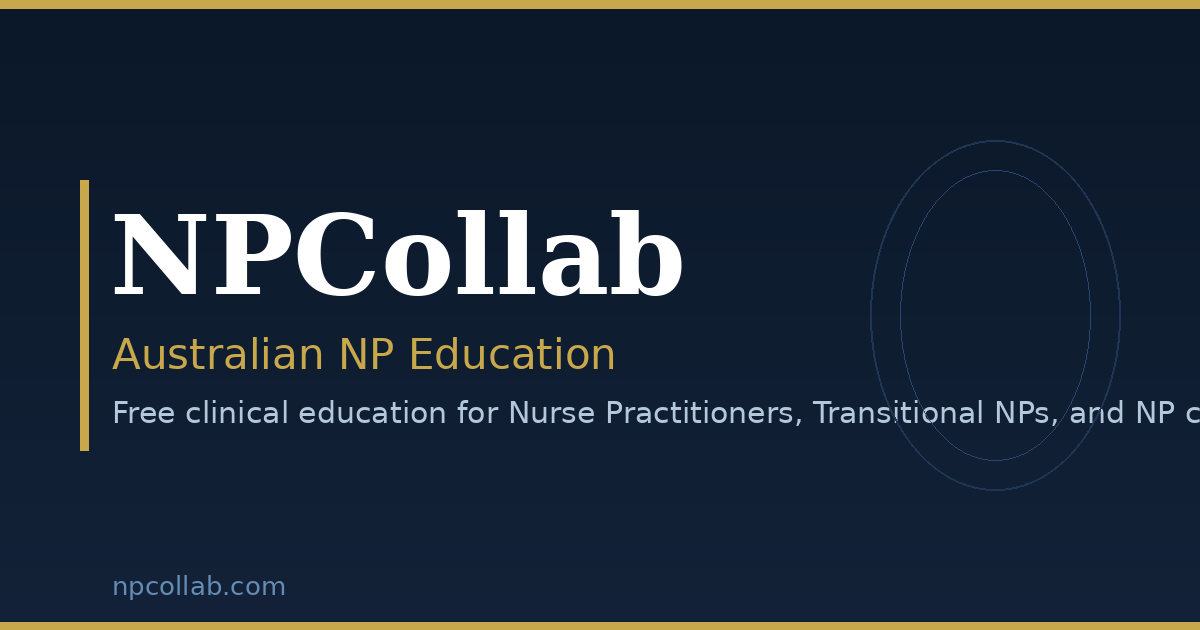
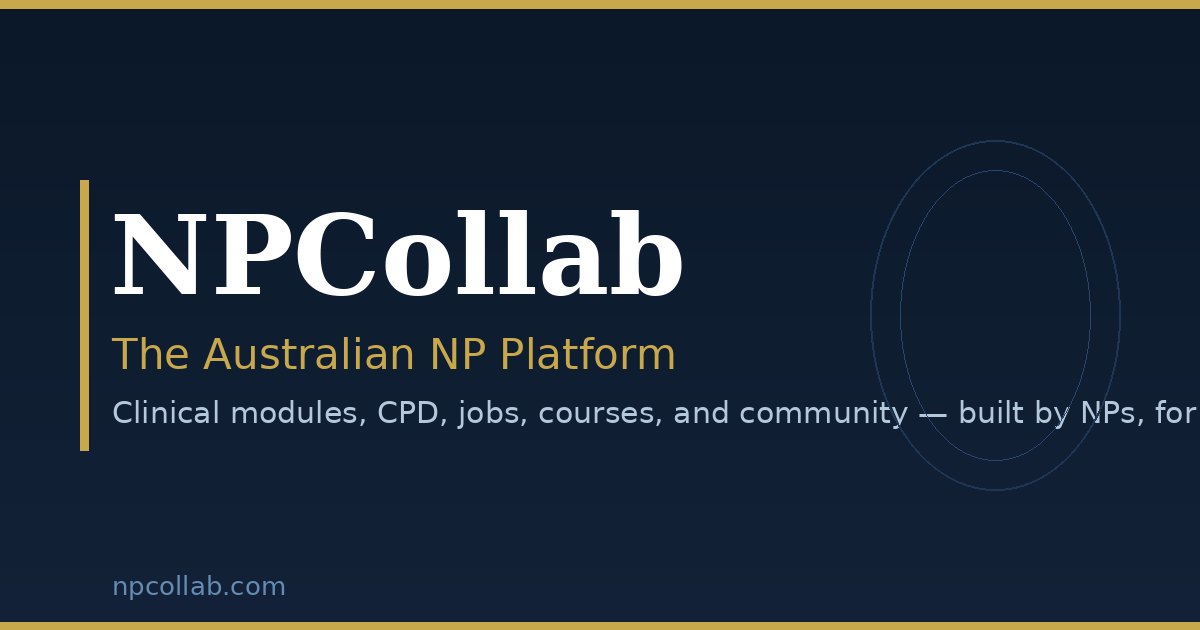
Session 22b: Update SEO positioning — platform over education
- ROOT LAYOUT: Default description now 'the Australian platform for Nurse Practitioners...'
  Title template updated to '| NPCollab — The Australian NP Platform'
  OG/Twitter default title updated to match
  OG image alt text updated

- HOMEPAGE: Title → 'NPCollab — The Australian Nurse Practitioner Platform'
  Description → 'the free Australian platform... Clinical modules, CPD tracking, NP jobs,
  education courses, news, and community — all in one place'
  JSON-LD description updated to match

- ABOUT: Meta description → 'the go-to platform for NPs across Australia'
  Page subtitle updated to match new positioning

- SUPPORT: Meta description → 'the Australian NP platform built by NPs for NPs'

- OG image: Tagline updated from 'Australian NP Education' to 'The Australian NP Platform'
  Sub-descriptor updated to reflect full platform offering

tsc --noEmit: zero errors

Changed region(s): [[0.0925, 0.6333, 1.0, 0.6937], [0.0925, 0.5127, 0.5858, 0.6032]]

diff --git a/app/(main)/page.tsx b/app/(main)/page.tsx
@@ -4,11 +4,11 @@ import { getActiveSponsor, isAdPreviewMode } from '@/lib/sponsors';
 import { HomepageSponsorCard } from '@/components/SponsorCard';
 
 export const metadata: Metadata = {
-  title: 'Free Clinical Education for Australian Nurse Practitioners',
-  description: 'Free clinical modules, CPD resources, job board, and community for Australian Nurse Practitioners, Transitional NPs, and NP candidates.',
+  title: 'NPCollab — The Australian Nurse Practitioner Platform',
+  description: 'NPCollab is the free Australian platform for Nurse Practitioners and NP candidates. Clinical modules, CPD tracking, NP jobs, education courses, news, and community — all in one place.',
   openGraph: {
-    title: 'Free Clinical Education for Australian Nurse Practitioners | NPCollab',
-    description: 'Free clinical modules, CPD resources, job board, and community for Australian Nurse Practitioners, Transitional NPs, and NP candidates.',
+    title: 'NPCollab — The Australian Nurse Practitioner Platform',
+    description: 'NPCollab is the free Australian platform for Nurse Practitioners and NP candidates. Clinical modules, CPD tracking, NP jobs, education courses, news, and community — all in one place.',
     url: 'https://npcollab.com/',
   },
   alternates: {
@@ -40,7 +40,7 @@ export default async function HomePage() {
         name: 'NPCollab',
         url: 'https://npcollab.com',
         description:
-          'NPCollab is a free clinical education platform for Australian Nurse Practitioners, Transitional NPs, and NP candidates. Clinical modules, CPD resources, job board, and community — built by NPs, for NPs.',
+          'NPCollab is the Australian platform for Nurse Practitioners, Transitional NPs, and NP candidates. Clinical modules, CPD resources, job board, courses, and community — built by NPs, for NPs.',
         founder: {
           '@type': 'Person',
           name: 'Jason Carney',

diff --git a/app/layout.tsx b/app/layout.tsx
@@ -5,13 +5,13 @@ import './globals.css';
 const SITE_URL = 'https://npcollab.com';
 const SITE_NAME = 'NPCollab';
 const DEFAULT_DESCRIPTION =
-  'NPCollab is a free clinical education platform for Australian Nurse Practitioners, Transitional NPs, and NP candidates. Clinical modules, CPD resources, job board, and community — built by NPs, for NPs.';
+  'NPCollab is the Australian platform for Nurse Practitioners, Transitional NPs, and NP candidates. Clinical modules, CPD resources, job board, courses, and community — built by NPs, for NPs.';
 
 export const metadata: Metadata = {
   metadataBase: new URL(SITE_URL),
   title: {
-    template: `%s | ${SITE_NAME} — Australian NP Education`,
-    default: `${SITE_NAME} — Free Clinical Education for Australian Nurse Practitioners`,
+    template: `%s | ${SITE_NAME} — The Australian NP Platform`,
+    default: `${SITE_NAME} — The Australian Nurse Practitioner Platform`,
   },
   description: DEFAULT_DESCRIPTION,
   keywords: [
@@ -44,20 +44,20 @@ export const metadata: Metadata = {
     locale: 'en_AU',
     url: SITE_URL,
     siteName: SITE_NAME,
-    title: `${SITE_NAME} — Free Clinical Education for Australian Nurse Practitioners`,
+    title: `${SITE_NAME} — The Australian Nurse Practitioner Platform`,
     description: DEFAULT_DESCRIPTION,
     images: [
       {
         url: '/og-image.png',
         width: 1200,
         height: 630,
-        alt: 'NPCollab — Australian NP Education',
+        alt: 'NPCollab — The Australian NP Platform',
       },
     ],
   },
   twitter: {
     card: 'summary_large_image',
-    title: `${SITE_NAME} — Free Clinical Education for Australian Nurse Practitioners`,
+    title: `${SITE_NAME} — The Australian Nurse Practitioner Platform`,
     description: DEFAULT_DESCRIPTION,
     images: ['/og-image.png'],
   },

diff --git a/app/(main)/about/page.tsx b/app/(main)/about/page.tsx
@@ -2,10 +2,10 @@ import type { Metadata } from 'next';
 
 export const metadata: Metadata = {
   title: 'About NPCollab',
-  description: 'NPCollab was built by Jason Carney, an Australian Nurse Practitioner, to provide free clinical education for NPs across Australia.',
+  description: 'NPCollab was built by Jason Carney, an Australian Nurse Practitioner, as the go-to platform for NPs across Australia.',
   openGraph: {
     title: 'About NPCollab | NPCollab',
-    description: 'NPCollab was built by Jason Carney, an Australian Nurse Practitioner, to provide free clinical education for NPs across Australia.',
+    description: 'NPCollab was built by Jason Carney, an Australian Nurse Practitioner, as the go-to platform for NPs across Australia.',
     url: 'https://npcollab.com/about',
   },
   alternates: {
@@ -19,7 +19,7 @@ export default function AboutPage() {
       <div className="page-header">
         <div className="label">Site</div>
         <h1>About NPCollab</h1>
-        <p>A free clinical education platform built by an Australian Nurse Practitioner, for Nurse Practitioners.</p>
+        <p>The Australian platform for Nurse Practitioners — built by an NP, for NPs.</p>
       </div>
 
       <div className="content-prose">

diff --git a/app/(main)/support/page.tsx b/app/(main)/support/page.tsx
@@ -3,10 +3,10 @@ import SupportPageClient from './SupportPageClient';
 
 export const metadata: Metadata = {
   title: 'Support NPCollab',
-  description: 'Support NPCollab — a free clinical education platform built by Australian NPs for NPs. Help keep it free and independent.',
+  description: 'Support NPCollab — the Australian NP platform built by NPs for NPs. Help keep it free and independent.',
   openGraph: {
     title: 'Support NPCollab | NPCollab',
-    description: 'Support NPCollab — a free clinical education platform built by Australian NPs for NPs. Help keep it free and independent.',
+    description: 'Support NPCollab — the Australian NP platform built by NPs for NPs. Help keep it free and independent.',
     url: 'https://npcollab.com/support',
   },
   alternates: {
